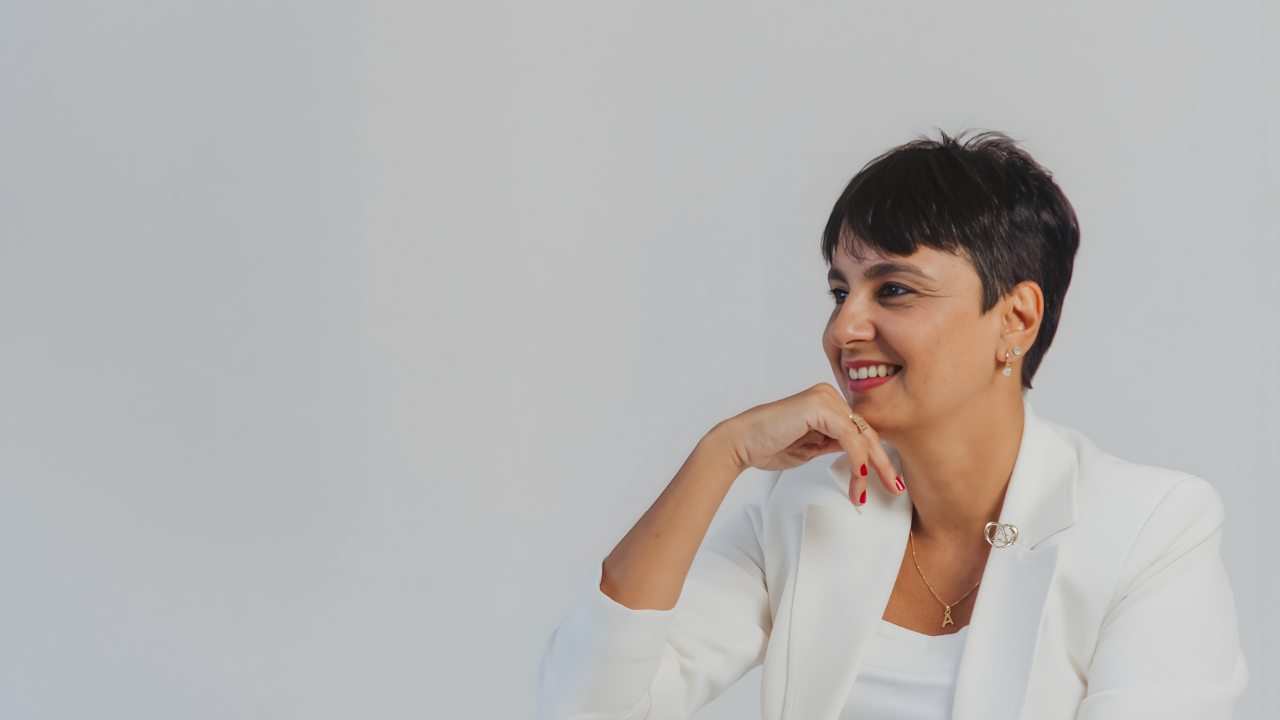
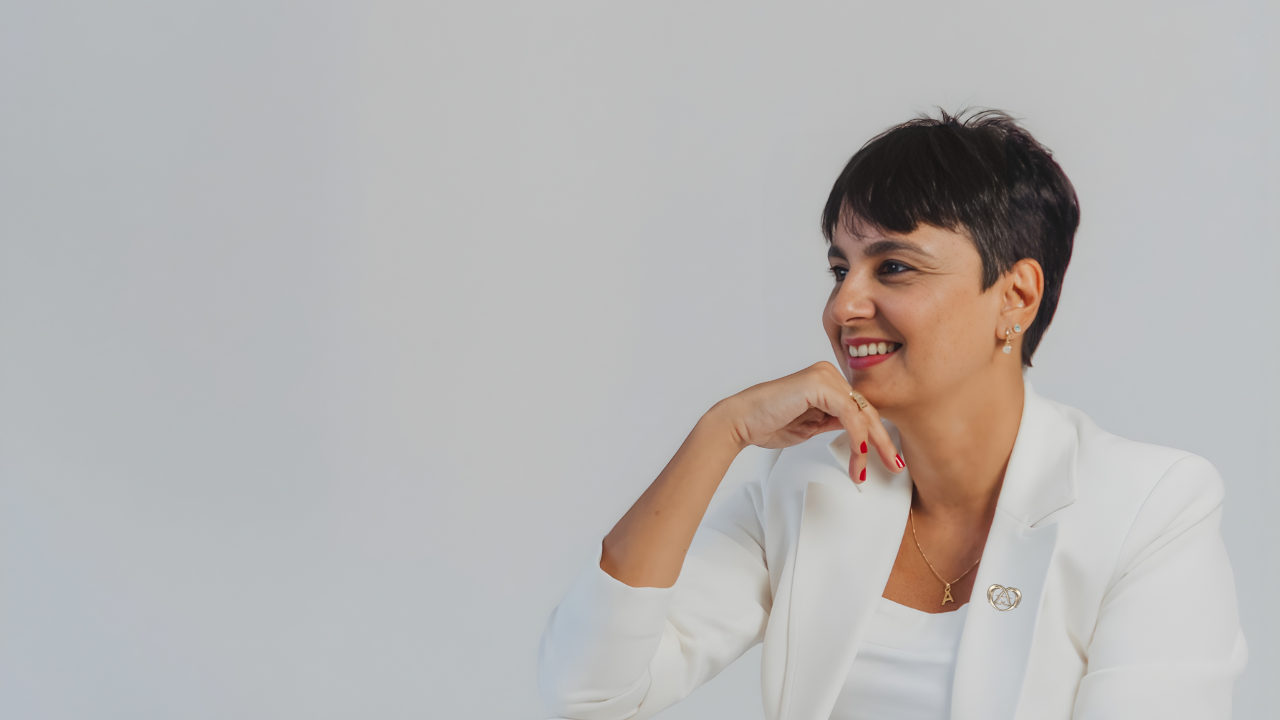
few updates to the index.html and style.css files to enhance the visual appeal of the website. The changes include adding a new image, modifying the font weight and background gradient for certain text elements, and adjusting padding for better layout. These updates aim to create a more engaging and

diff --git a/style.css b/style.css
@@ -127,8 +127,8 @@ body{
   font-family: "Poppins", sans-serif;
   font-weight: 400;
   font-style: normal;
-  background: linear-gradient(90deg,rgba(16, 36, 81, 1) 20%, rgba(33, 70, 138, 1) 80%);
-  color: #fff;
+  background-color: white;
+  color: black;
 }
 .container{
   display: flex;
@@ -142,10 +142,12 @@ h2{
   padding-top: 0;
   margin-top: 0;
   margin-bottom: 16px;
-  font-weight: 600;
+  font-weight: 800;
   font-style: normal;
   font-size: clamp(2rem, 1.643rem + 0.952vw, 2.5rem);
-  color: #e7d9b6;
+  background: linear-gradient(90deg,rgba(16, 36, 81, 1) 20%, rgba(33, 70, 138, 1) 80%);
+  -webkit-background-clip: text;
+  -webkit-text-fill-color: transparent;
 }
 ul{
   margin: 0;
@@ -173,6 +175,13 @@ button{
   text-transform: uppercase;
   letter-spacing: 0.2rem;
   margin-top: 32px;
+  box-shadow: 0 0 8px rgb(66, 65, 65);
+  transition: all 0.3s ease; /* Add smooth transition */
+}
+button:hover {
+  transform: scale(1.05); /* Grows by 5% */
+  background-color: #d4c698; /* Slightly darker shade */
+  box-shadow: 0 4px 12px rgb(66, 65, 65); /* Optionally enhance shadow on hover */
 }
 
 /* Header */
@@ -211,7 +220,24 @@ header ul li a{
   color: #e4e1d5;
   font-weight: 400;
   font-style: normal;
+  position: relative;
   /* font-size: 2rem; */
+}
+a::after {
+  content: '';
+  position: absolute;
+  bottom: -2px;
+  left: 0;
+  width: 100%;
+  height: 2px;
+  background-color: #e7d9b6;
+  transform: scaleX(0);
+  transform-origin: left;
+  transition: transform 0.3s ease;
+}
+
+a:hover::after {
+  transform: scaleX(1);
 }
 
 /* Banner */
@@ -345,7 +371,8 @@ h1{
   width: 100%;
   height: auto;
   /* background-color: #21468a; */
-  
+  background: linear-gradient(90deg,rgba(16, 36, 81, 1) 20%, rgba(33, 70, 138, 1) 80%);
+  color: white;
 }
 .carreira .container{
   align-items: center;
@@ -357,25 +384,17 @@ h1{
   width: 80%;
   /* margin: 0 auto; */
 }
+.conteudo > h2{
+  background: linear-gradient(90deg,rgba(228, 225, 213, 1) 20%,rgba(231, 217, 182, 1) 80%);
+  -webkit-background-clip: text;
+  -webkit-text-fill-color: transparent;
+  text-align: center;
+}
 @media (max-width: 768px) {
   .conteudo{
     width: 100%;
   }
   
-}
-.carreira button{
-  width: fit-content;
-  padding: 16px 32px;
-  background-color: #e7d9b6;
-  color: #0a152e;
-  font-weight: 800;
-  font-size: 1rem;
-  border: none;
-  border-radius: 5px;
-  cursor: pointer;
-  text-transform: uppercase;
-  letter-spacing: 0.2rem;
-  margin-top: 32px;
 }
 
 /* Bloco 2 — Conexão com a Dor */
@@ -385,8 +404,8 @@ h1{
   justify-content: center;
   width: 100%;
   height: auto;
-  background-color: white;
-  color: black;
+  /* background-color: white;
+  color: black; */
 }
 .para-quem p{
   margin-bottom: clamp(3.125rem, 0.893rem + 5.952vw, 6.25rem);
@@ -418,8 +437,8 @@ h1{
   justify-content: center;
   width: 100%;
   height: auto;
-  background-color: white;
-  color: black;
+  /* background-color: white;
+  color: black; */
 }
 .beneficios .container{
   align-items: center;
@@ -537,7 +556,6 @@ h1{
   .aulas-lista{
     gap: 0px;
   }
-  
 }
 
 /* Bloco 6 — Quem Conduz */
@@ -547,22 +565,27 @@ h1{
   justify-content: flex-start;
   width: 100%;
   height: 100vh;
-  background-color: white;
-  color: black;
+  background: linear-gradient(90deg,rgba(16, 36, 81, 1) 20%, rgba(33, 70, 138, 1) 80%);
+  color: white;
 }
 @media (max-width: 768px) {
   .quem-conduz{
     flex-wrap: wrap;
     height: auto;
   }
-  
 }
 .texto{
   display: flex;
   flex-direction: column;
   justify-content: center;
   width: 40%;
-  padding: 0 clamp(1rem, -7.214rem + 21.905vw, 12.5rem);
+  padding: 0 clamp(1rem, -7.214rem + 21.905vw, 10.5rem);
+}
+.texto span{
+  display: inline-block;
+  background-color: white;
+  height: 2px;
+  margin: 20px 0;
 }
 @media (max-width: 768px) {
   .texto{
@@ -570,7 +593,6 @@ h1{
     padding-top: 50px;
     padding-bottom: 50px;
   }
-  
 }
 .texto p{
   font-size: clamp(1.25rem, 0.893rem + 0.952vw, 1.75rem);
@@ -586,7 +608,6 @@ h1{
     width: 100%;
     height: auto;
   }
-  
 }
 .foto img{
   width: 100%;
@@ -609,8 +630,8 @@ h1{
   justify-content: center;
   width: 100%;
   height: auto;
-  background-color: white;
-  color: black;
+  /* background-color: white;
+  color: black; */
 }
 .cartoes{
   display: flex;
@@ -664,8 +685,8 @@ h1{
   justify-content: center;
   width: 100%;
   height: auto;
-  background-color: white;
-  color: black;
+  /* background-color: white;
+  color: black; */
 }
 .cta-final .container{
   flex-direction: column;

diff --git a/index.html b/index.html
@@ -160,7 +160,9 @@
             </div>
 
             <div class="texto">
+                <span></span>
                 <p>Andrea construiu sua trajetória com visão, coragem e amor pela micropigmentação. Sua história passa pela educação, pela formação de profissionais e pela expansão de oportunidades dentro e fora do Brasil. A Mentoria Carreiras sem Fronteiras carrega essa essência: orientar você a reconhecer sua força, organizar seus caminhos e construir uma carreira com mais liberdade e futuro.</p>
+                <span></span>
             </div>
         
         </section>
